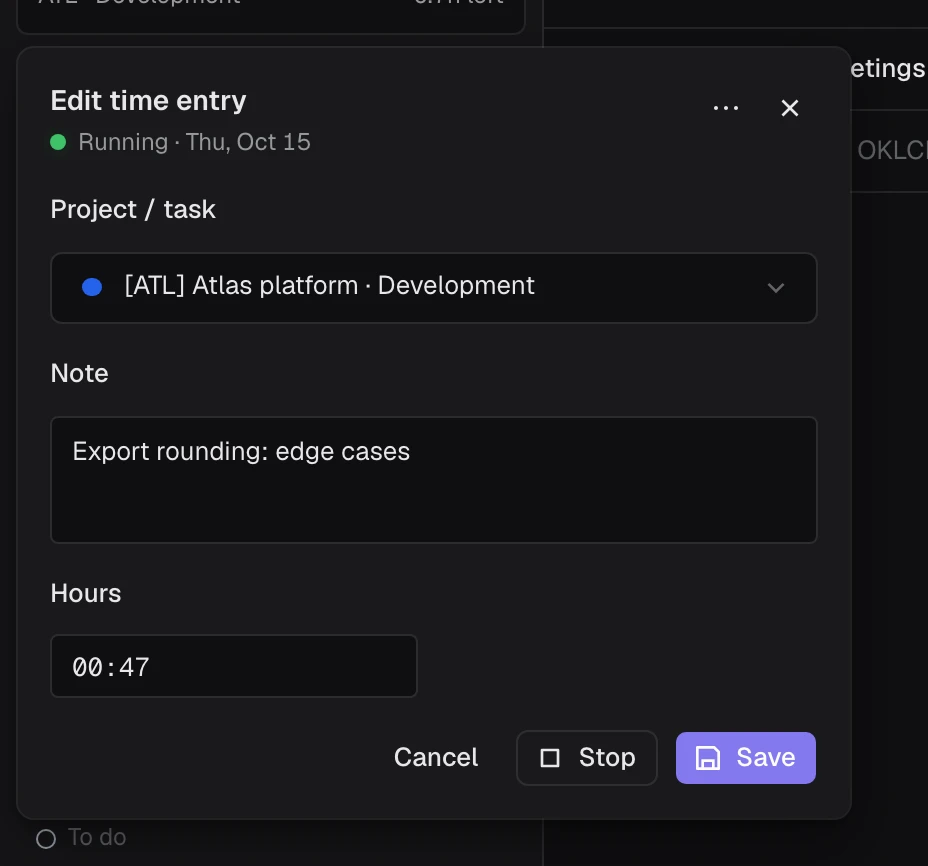
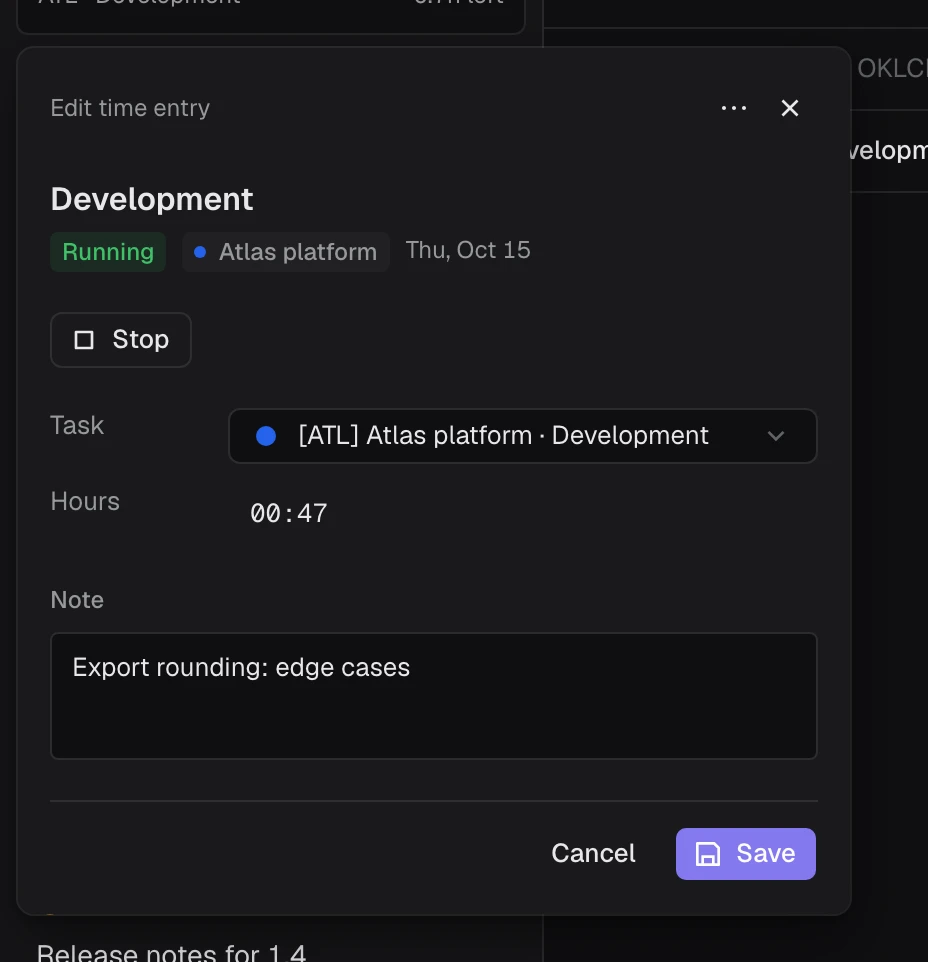
docs(time): describe the new entry panel, day order and remembered view
Retakes the time screenshots that show the changed screens.

diff --git a/apps/docs/time/entries.md b/apps/docs/time/entries.md
@@ -8,12 +8,12 @@ A time entry is time spent on a task on one day, with an optional note. This pag
 
 Press <kbd>N</kbd>, or the **+** button in the sidebar. You can also choose **New entry…** on a task or a backlog item, which fills in its project and task.
 
-| Field              | What to enter                                                                                                                     |
-| ------------------ | --------------------------------------------------------------------------------------------------------------------------------- |
-| **Project / task** | Search by project, task or code. Choose **Use project without a task** to log time on the project only.                           |
-| **Note**           | Optional. What you did. Notes become the comments of your timesheet lines.                                                        |
-| **Hours**          | `1:30`, `1.5` or `1,5`. Ajour shows it as `01:30` once you leave the field.                                                       |
-| **Date**           | The day of the entry. <kbd>N</kbd> and the sidebar **+** start on today. The **New entry** row and Week cells start on their day. |
+| Field     | What to enter                                                                                                                                 |
+| --------- | --------------------------------------------------------------------------------------------------------------------------------------------- |
+| **Task**  | Search by project, task or code. Choose **Use project without a task** to log time on the project only.                                       |
+| **Note**  | Optional. What you did. Notes become the comments of your timesheet lines.                                                                    |
+| **Hours** | `1:30`, `1.5` or `1,5`. Ajour shows it as `01:30` once you leave the field.                                                                   |
+| **Date**  | The day of the entry. <kbd>N</kbd> and the sidebar **+** start on today. The **New entry** row and Week cells and columns start on their day. |
 
 Press **Save**, <kbd>Enter</kbd> or <kbd>⌘</kbd> <kbd>Enter</kbd>. To start the entry instead of logging hours, leave **Hours** empty and press **Start**.
 

diff --git a/apps/docs/time/week-view.md b/apps/docs/time/week-view.md
@@ -4,7 +4,7 @@ The Week view shows a whole week at once. Use it to fill gaps at the end of the 
 
 <Shot name="time-week-grid" alt="The Week view as a grid: one row per task, one column per day" />
 
-Press <kbd>W</kbd> on the Time page, or press **Week** in the header. Press <kbd>D</kbd> to go back to the Day view, and <kbd>[</kbd> or <kbd>]</kbd> to move a week back or forward.
+Press <kbd>W</kbd> on the Time page, or press **Week** in the header. Press <kbd>D</kbd> to go back to the Day view, and <kbd>[</kbd> or <kbd>]</kbd> to move a week back or forward. Ajour remembers which view you used last and opens the Time page on it.
 
 The Week view has two layouts. Switch between **Grid** and **Days** at the top of the page. Ajour remembers your choice.
 
@@ -34,13 +34,13 @@ To delete a row, right-click its name and choose **Delete row**, or press <kbd>S
 
 ## Days
 
-The Days layout has one column per day, with a card per entry. Use it to see the order of your day and your notes.
+The Days layout has one column per day, with a card per entry. Use it to see the order of your day and your notes. Each day reads from top to bottom in the order you worked: the oldest entry first, the running entry last.
 
 <Shot name="time-week-days" alt="The Week view as days: one column per day with a card per entry" />
 
 - Drag a card to another day to move the entry there. Drag it within a day to reorder it.
 - Click a card, or press <kbd>Space</kbd> on it, to open it in the side panel.
-- Press **+ Add** at the bottom of a column for a new entry on that day.
+- Press **+ Add** at the bottom of a column, or double-click the day's header or the empty space in its column, for a new entry on that day. It lands at the end of the day.
 
 ::: info Narrow windows
 The Week view needs a window at least 768 pixels wide. In a narrower window, Ajour shows the Day view instead.

diff --git a/apps/docs/time/day-view.md b/apps/docs/time/day-view.md
@@ -1,6 +1,6 @@
 # Day view
 
-The Day view lists the entries of one day. Ajour opens on today's Day view.
+The Day view lists the entries of one day. Ajour opens on today, in the view you used last: Day or [Week](/time/week-view).
 
 <Shot name="time-day" alt="The Day view: the week strip, today's entries and the running entry" />
 
@@ -30,7 +30,7 @@ To log time while you work instead, start a [running entry](/time/running-entrie
 
 ## Edit an entry
 
-Click a row to open it in the side panel. Change the task, the hours, the note or the date, then press **Save** or <kbd>⌘</kbd> <kbd>Enter</kbd>.
+Click a row to open it in the side panel. The panel shows the task, its project and the date at the top, with **Continue** to start the entry again. Change the task, the hours, the date or the note, then press **Save** or <kbd>⌘</kbd> <kbd>Enter</kbd>.
 
 <Shot name="time-entry-editor" alt="An entry open in the side panel next to the day" />
 

diff --git a/apps/docs/start/index.md b/apps/docs/start/index.md
@@ -6,7 +6,7 @@ This guide takes you through a first week in Ajour. You set up a project, track 
 
 [Install the desktop app](/start/install). Ajour has no account and no sign-in. Your workspace lives on your machine from the first launch.
 
-A new workspace has two projects, **Internal** and **Client Work**, and no tasks. It opens on today's [Day view](/time/day-view).
+A new workspace has two projects, **Internal** and **Client Work**, and no tasks. It opens on today's [Day view](/time/day-view). After that, Ajour opens the Time page in the view you used last.
 
 <Shot name="empty-workspace" alt="A new workspace on the Day view, with no entries" />
 
